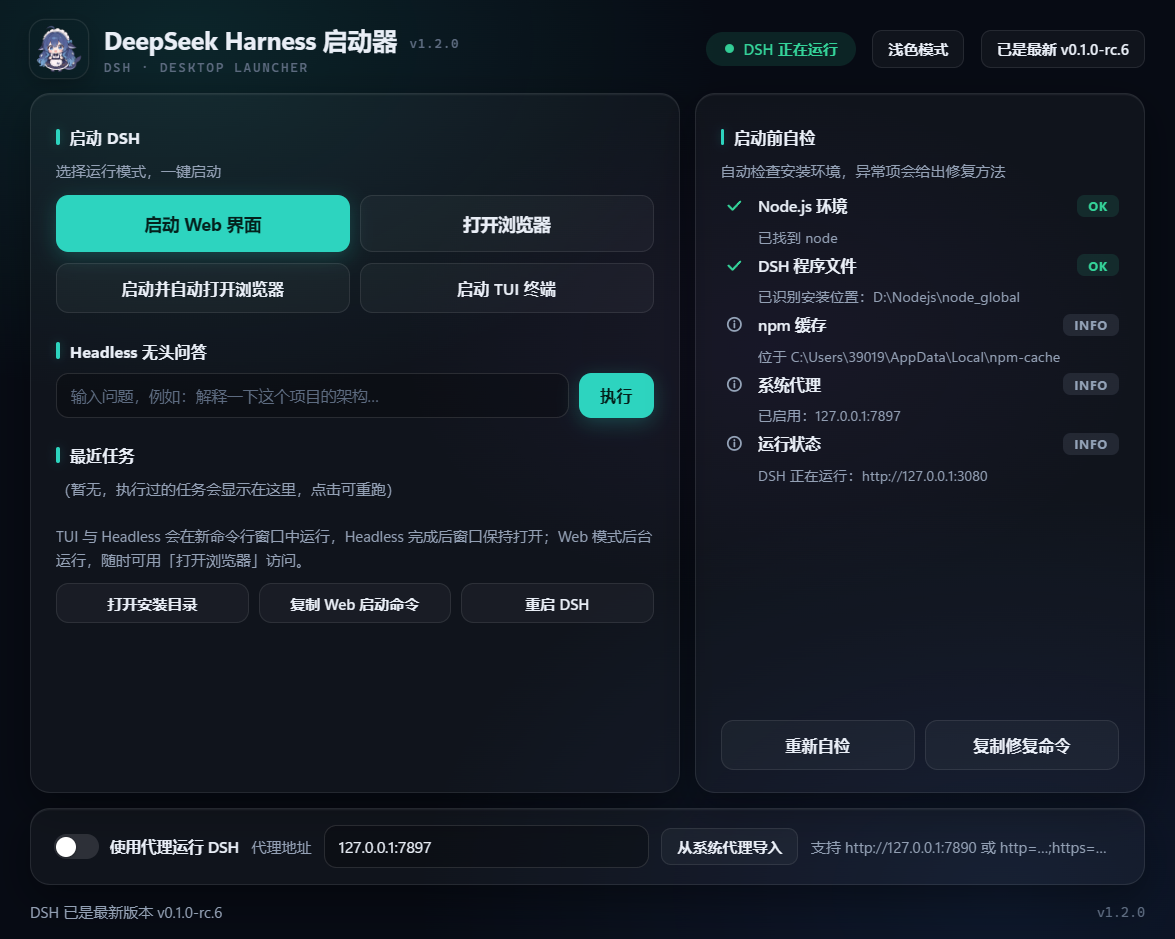
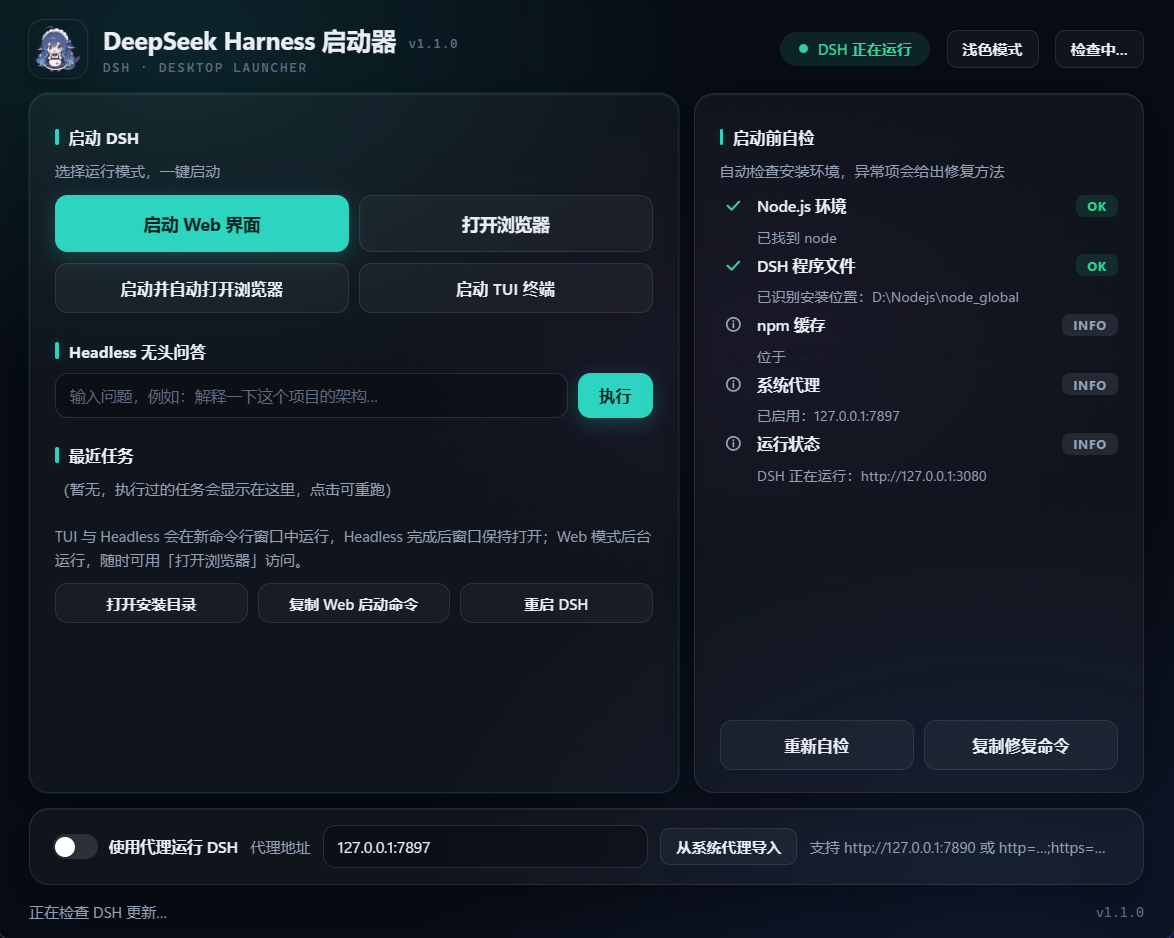
docs: README 加入深色/浅色双主题展示截图

diff --git a/README.md b/README.md
@@ -3,7 +3,9 @@
 DeepSeek Harness 图形界面一键启动器 —— 基于 **Tauri 2**（Rust + WebView2）构建，
 **单个原生 exe（约 7.6MB）**，GPU 合成渲染、CSS 动画、拖动丝滑。
 
-![启动器截图](tauri/docs/screenshot.png)
+| 深色模式 | 浅色模式 |
+| :---: | :---: |
+| ![深色模式](tauri/docs/ui-dark.png) | ![浅色模式](tauri/docs/ui-light.png) |
 
 ## 功能
 
